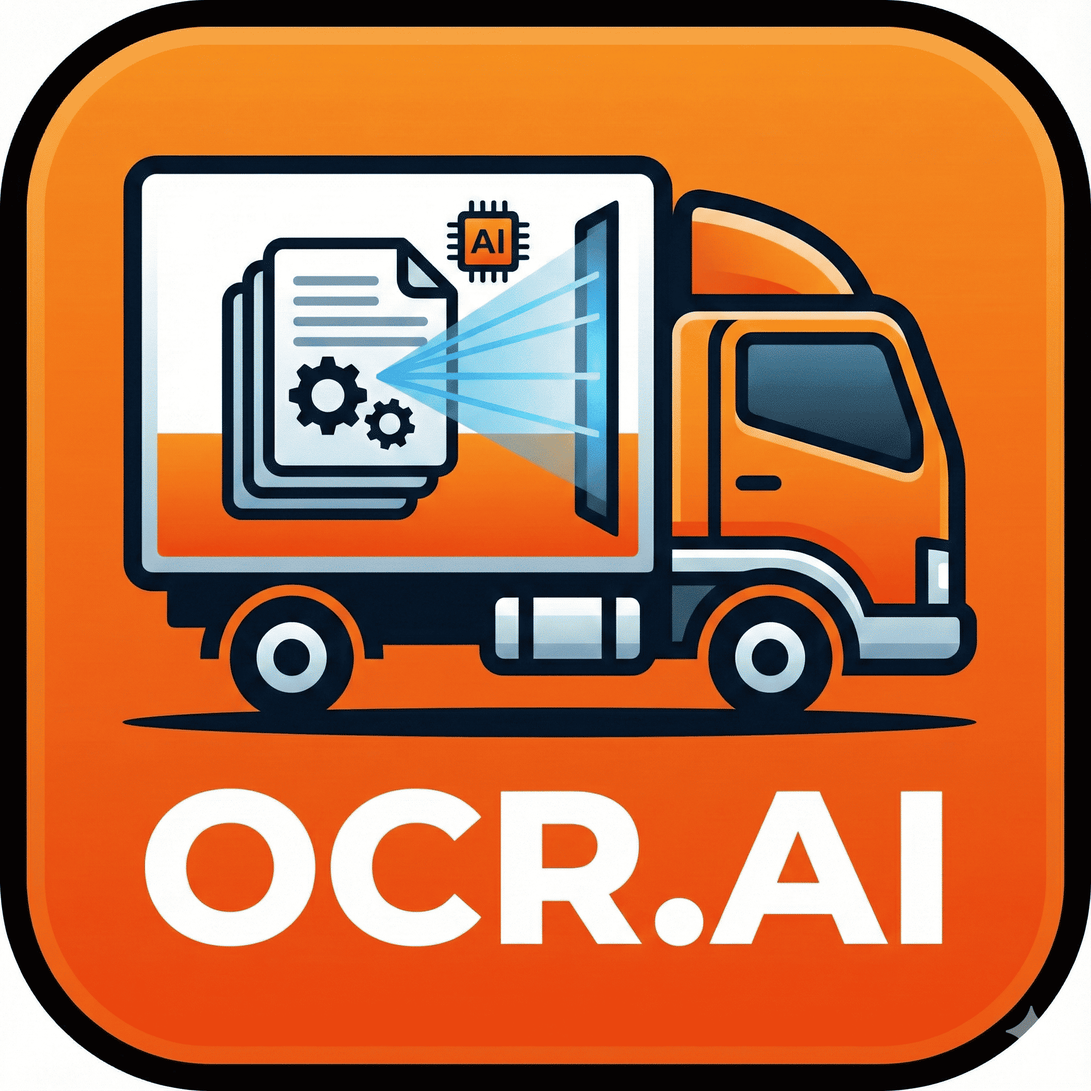
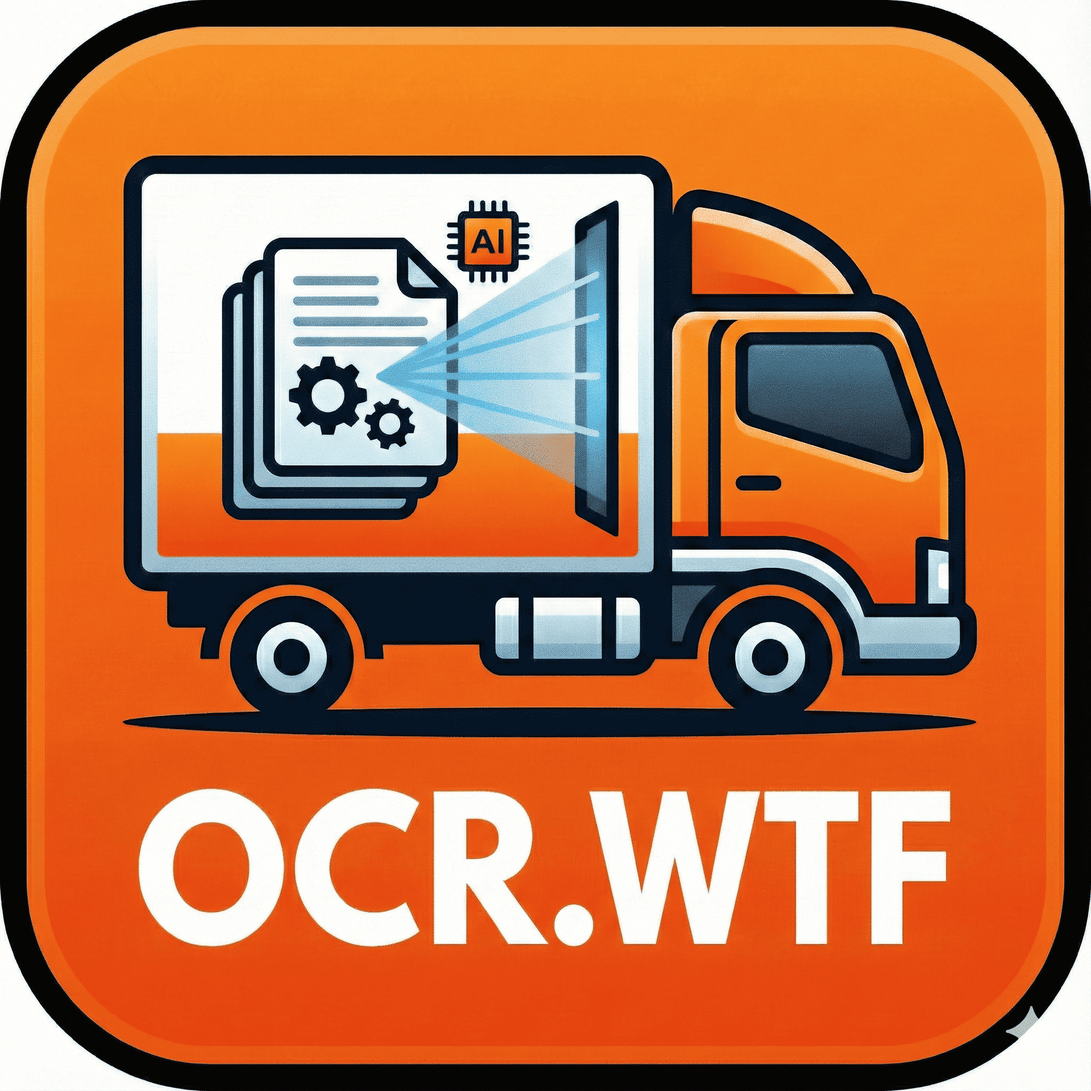
feat: Add ocr.wtf domain support and improve Excel formatting
- Add ocr.wtf and www.ocr.wtf to CORS allowed origins
- Update meta tags with ocr.wtf domain
- Improve Excel formatting: all text center aligned
- Replace long photo URLs with clickable ' Lihat Foto' text
- Optimize column widths and row heights
- Remove CSV and local Excel download buttons
- Keep only GDRIVE upload button
- Update README with ocr.wtf domain

diff --git a/fe/src/components/dashboard/DataTable.tsx b/fe/src/components/dashboard/DataTable.tsx
@@ -253,28 +253,6 @@ const DataTable = ({ logs, onDeleteLog }: DataTableProps) => {
                 <CloudUpload className="w-3 h-3 md:w-4 md:h-4 mr-1 md:mr-2" />
                 GDRIVE
               </Button>
-
-              {/* Tombol CSV */}
-              <Button
-                variant="outline"
-                size="sm"
-                onClick={handleExportCSV}
-                className="bg-background text-foreground text-[10px] md:text-xs h-8 px-2 md:px-3"
-              >
-                <Download className="w-3 h-3 md:w-4 md:h-4 mr-1 md:mr-2" />
-                CSV
-              </Button>
-
-              {/* Tombol Excel */}
-              <Button
-                variant="primary"
-                size="sm"
-                onClick={handleExportExcel}
-                className="text-[10px] md:text-xs h-8 px-2 md:px-3"
-              >
-                <FileSpreadsheet className="w-3 h-3 md:w-4 md:h-4 mr-1 md:mr-2" />
-                EXCEL
-              </Button>
             </div>
           </div>
 

diff --git a/fe/index.html b/fe/index.html
@@ -11,12 +11,13 @@
     <meta property="og:title" content="OCR.WTF - AI-Powered OCR Automation" />
     <meta property="og:description" content="Scan dokumen otomatis dengan AI. Upload foto dokumen, langsung jadi data digital. Hemat waktu 90%!" />
     <meta property="og:type" content="website" />
-    <meta property="og:image" content="https://supply-chain-plum-rho.vercel.app/2.png" />
+    <meta property="og:url" content="https://ocr.wtf" />
+    <meta property="og:image" content="https://ocr.wtf/2.png" />
 
     <meta name="twitter:card" content="summary_large_image" />
     <meta name="twitter:title" content="OCR.WTF - AI-Powered OCR" />
     <meta name="twitter:description" content="Scan dokumen otomatis dengan AI, hemat 90% waktu input data!" />
-    <meta name="twitter:image" content="https://supply-chain-plum-rho.vercel.app/2.png" />
+    <meta name="twitter:image" content="https://ocr.wtf/2.png" />
   </head>
 
   <body>

diff --git a/be/main.py b/be/main.py
@@ -63,9 +63,20 @@ app.mount("/uploads", StaticFiles(directory=UPLOAD_DIR), name="uploads")
 
 # --- KONFIGURASI CORS ---
 FRONTEND_URL = os.getenv("FRONTEND_URL", "http://localhost:8080")
+
+# Allow multiple domains
+allowed_origins = [
+    "http://localhost:8080",
+    "http://localhost:8081",
+    "https://ocrai.vercel.app",
+    "https://ocr.wtf",
+    "https://www.ocr.wtf",
+    "*"  # Fallback for development
+]
+
 app.add_middleware(
     CORSMiddleware,
-    allow_origins=["*"],  # Allow all origins for development
+    allow_origins=allowed_origins,
     allow_credentials=True,
     allow_methods=["*"],
     allow_headers=["*"],
@@ -385,9 +396,85 @@ async def export_excel(authorization: str = Header(None), upload_to_drive: bool 
         df = pd.DataFrame(data)
         filename = f"Laporan_{user_email.split('@')[0]}_{datetime.now().strftime('%Y%m%d_%H%M%S')}.xlsx"
         
-        # Save to BytesIO for Google Drive upload
+        # Save to BytesIO with formatting
         excel_buffer = io.BytesIO()
-        df.to_excel(excel_buffer, index=False, engine='openpyxl')
+        
+        # Use ExcelWriter for advanced formatting
+        with pd.ExcelWriter(excel_buffer, engine='openpyxl') as writer:
+            df.to_excel(writer, index=False, sheet_name='Laporan')
+            
+            # Get workbook and worksheet
+            workbook = writer.book
+            worksheet = writer.sheets['Laporan']
+            
+            # Import openpyxl styles
+            from openpyxl.styles import Font, PatternFill, Alignment, Border, Side
+            from openpyxl.utils import get_column_letter
+            
+            # Style untuk header
+            header_fill = PatternFill(start_color="1F2937", end_color="1F2937", fill_type="solid")
+            header_font = Font(bold=True, color="FFFFFF", size=12)
+            
+            # Border style
+            thin_border = Border(
+                left=Side(style='thin', color='000000'),
+                right=Side(style='thin', color='000000'),
+                top=Side(style='thin', color='000000'),
+                bottom=Side(style='thin', color='000000')
+            )
+            
+            # Format header row
+            for col_num, column_title in enumerate(df.columns, 1):
+                cell = worksheet.cell(row=1, column=col_num)
+                cell.fill = header_fill
+                cell.font = header_font
+                cell.alignment = Alignment(horizontal='center', vertical='center', wrap_text=True)
+                cell.border = thin_border
+            
+            # Format data cells
+            for row in worksheet.iter_rows(min_row=2, max_row=worksheet.max_row, min_col=1, max_col=worksheet.max_column):
+                for cell in row:
+                    cell.border = thin_border
+                    
+                    # CENTER ALIGN SEMUA KOLOM
+                    cell.alignment = Alignment(horizontal='center', vertical='center', wrap_text=True)
+                    
+                    # Format tanggal
+                    if cell.column == 1 and cell.value:
+                        cell.number_format = 'DD/MM/YYYY HH:MM'
+                    
+                    # Make link clickable dengan text yang lebih pendek
+                    if cell.column == 6 and cell.value and isinstance(cell.value, str) and cell.value.startswith('http'):
+                        cell.hyperlink = cell.value
+                        cell.font = Font(color="0563C1", underline="single")
+                        cell.value = "📷 Lihat Foto"  # Ganti URL panjang dengan text pendek
+            
+            # Auto-adjust column width dengan ukuran lebih baik
+            for col_num, column_title in enumerate(df.columns, 1):
+                column_letter = get_column_letter(col_num)
+                
+                # Set specific widths untuk tampilan optimal
+                if column_title == "Tanggal":
+                    worksheet.column_dimensions[column_letter].width = 22
+                elif column_title == "Kategori":
+                    worksheet.column_dimensions[column_letter].width = 18
+                elif column_title == "Nomor Dokumen":
+                    worksheet.column_dimensions[column_letter].width = 25
+                elif column_title == "Penerima":
+                    worksheet.column_dimensions[column_letter].width = 30
+                elif column_title == "Ringkasan":
+                    worksheet.column_dimensions[column_letter].width = 60
+                elif column_title == "Link Foto":
+                    worksheet.column_dimensions[column_letter].width = 18
+            
+            # Freeze header row
+            worksheet.freeze_panes = 'A2'
+            
+            # Set row height untuk semua baris
+            worksheet.row_dimensions[1].height = 35  # Header lebih tinggi
+            for row_num in range(2, worksheet.max_row + 1):
+                worksheet.row_dimensions[row_num].height = 25  # Data row
+        
         excel_content = excel_buffer.getvalue()
         
         # Upload to Google Drive if enabled

diff --git a/README.md b/README.md
@@ -2,7 +2,7 @@
 
 > Scan dokumen otomatis dengan kecerdasan buatan - Cepat, Akurat, Tanpa Ribet!
 
-[![Live Demo](https://img.shields.io/badge/Demo-Live-brightgreen)](https://ocrai.vercel.app/)
+[![Live Demo](https://img.shields.io/badge/Demo-Live-brightgreen)](https://ocr.wtf)
 [![Backend API](https://img.shields.io/badge/API-Render-blue)](https://logistic-dokumen.onrender.com)
 [![License](https://img.shields.io/badge/License-MIT-yellow.svg)](LICENSE)
 
